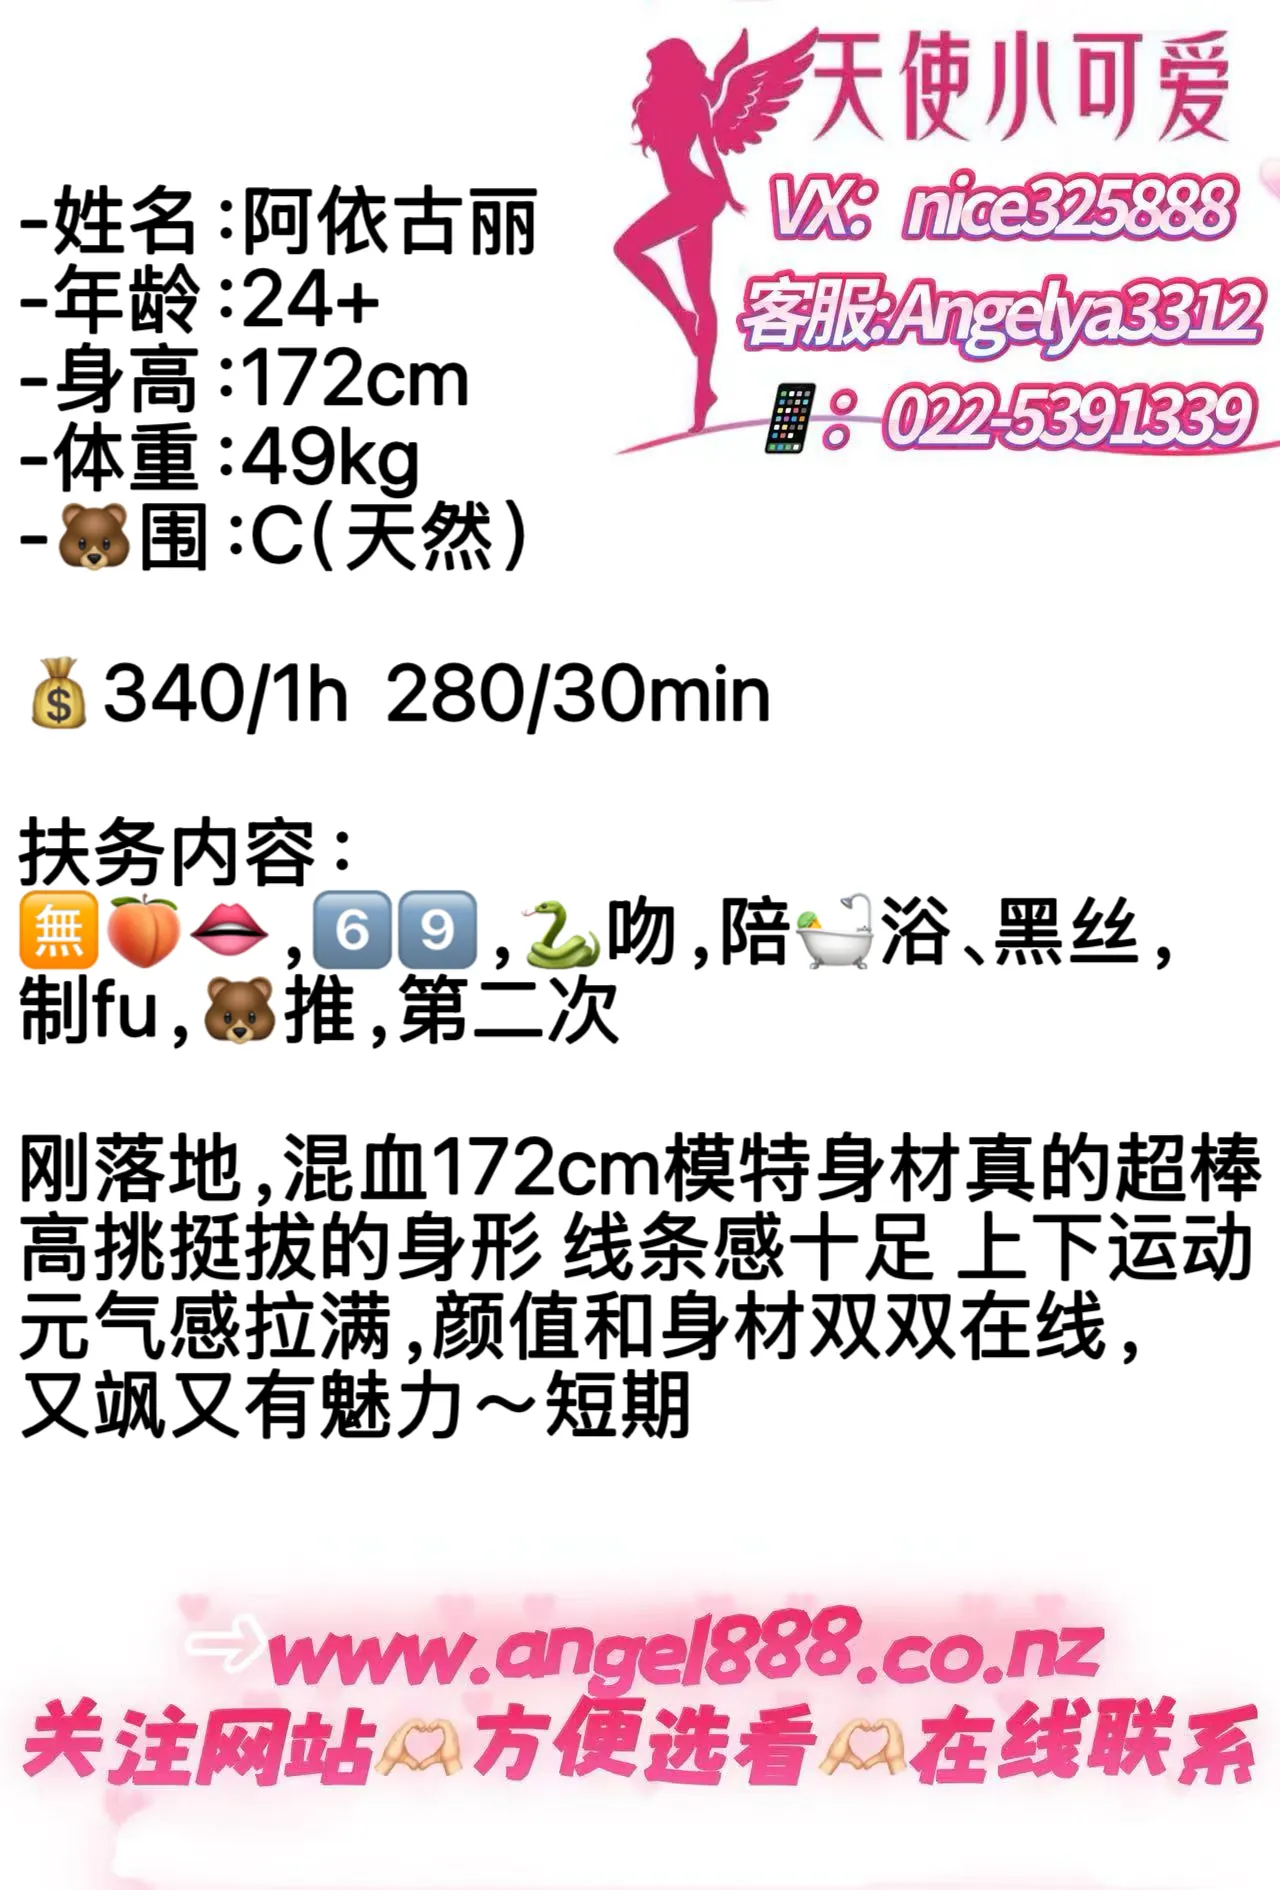
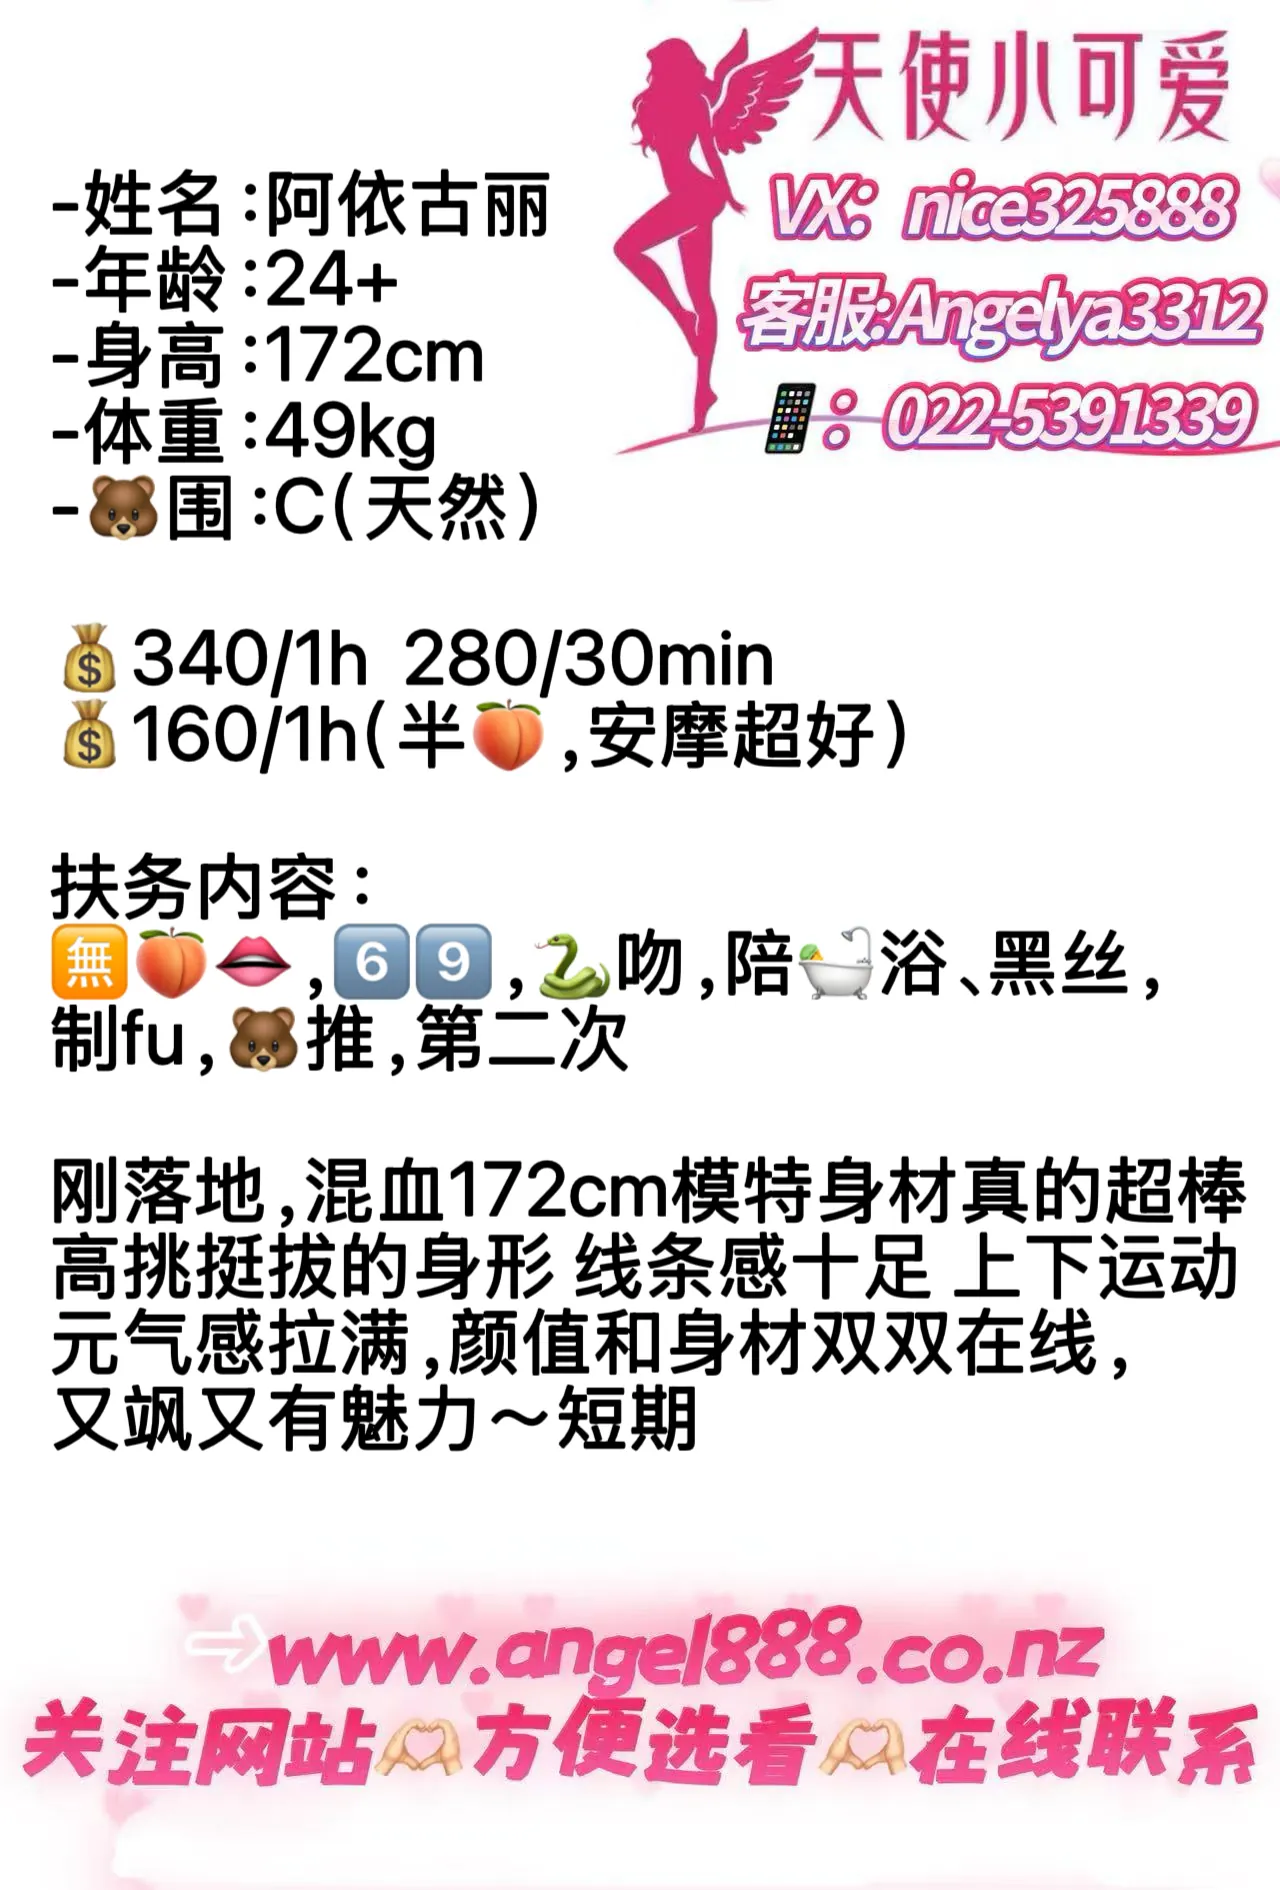
feat: Update Ayiguli pricing and services with sensory massage option

Changed region(s): [[0.0, 0.437, 1.0, 0.7804], [0.0312, 0.0937, 0.7188, 0.4058]]

diff --git a/src/lib/data.js b/src/lib/data.js
@@ -258,10 +258,10 @@ export const girls = [
     image: "/images/girls/ayiguli/1.webp",
     video: "/images/girls/ayiguli/video.mp4",
     description: {
-      en: "Exotic, high-spirited, and exceptionally gorgeous, Ayiguli is a recently arrived 24-year-old mixed-race companion now serving Central Auckland. Standing at an impressive 172cm with a slender 49kg model figure, she features natural C-cup breasts and a striking, athletic build. Full of energy, stylish, and highly charming, she provides a top-tier companion experience. Her standard package includes double shower play, French kissing, stockings, uniform roleplay, body slide, 69, natural BJ, and 2 rounds of pure pleasure.",
-      cn: "刚落地高颜混血车模！24 岁的阿依古丽拥有 172cm 的高挑超模身材，体重 49kg，身形线条感十足，拥有天然 C 罩杯。她长相惊艳、元气满满，具有独特的异域风情与飒爽魅力。服务态度极其端正，配合度极高。1 小时套餐不仅提供鸳鸯双人洗浴、甜蜜接吻、69互动、丝袜和制服诱惑、胸推漫游、无套口吹，更直接包含做 2 次的超值体验，为您在忙碌中打造极致放松的完美解压时光。",
+      en: "Exotic, high-spirited, and exceptionally gorgeous, Ayiguli is a recently arrived 24-year-old mixed-race companion now serving Central Auckland. Standing at an impressive 172cm with a slender 49kg model figure, she features natural C-cup breasts and a striking, athletic build. Full of energy, stylish, and highly charming, she provides a top-tier companion experience. Her standard package includes double shower play, French kissing, stockings, uniform roleplay, body slide, 69, natural BJ, and 2 rounds of pure pleasure. She also offers a dedicated 1-hour sensory massage package at a special rate of $160 (no sex included, featuring her outstanding professional massage techniques).",
+      cn: "刚落地高颜混血车模！24 岁的阿依古丽拥有 172cm 的高挑超模身材，体重 49kg，身形线条感十足，拥有天然 C 罩杯。她长相惊艳、元气满满，具有独特的异域风情与飒爽魅力。服务态度极其端正，配合度极高。1 小时套餐不仅提供鸳鸯双人洗浴、甜蜜接吻、69互动、丝袜和制服诱惑、胸推漫游、无套口吹，更直接包含做 2 次的超值体验。此外，她还特别提供 1 小时纯感官按摩（不含啪/性爱项目，仅需 $160，手法极佳），为您在忙碌中打造极致放松的完美解压时光。",
     },
-    price: "$340 / 1h · $280 / 30min",
+    price: "$340 / 1h · $280 / 30min · $160 / 1h (Sensory Massage Only)",
     services: {
       en: [
         "Shower together",
@@ -271,6 +271,7 @@ export const girls = [
         "Breast massage",
         "Stockings / Uniform roleplay",
         "2 rounds",
+        "Massage Package: 1h Sensory Massage (no sex) · $160",
       ],
       cn: [
         "双人洗浴",
@@ -280,6 +281,7 @@ export const girls = [
         "胸推漫游",
         "丝袜/制服诱惑",
         "做2次",
+        "纯感官按摩套餐：1h 纯按摩（无啪）· $160",
       ],
     },
     gallery: [
